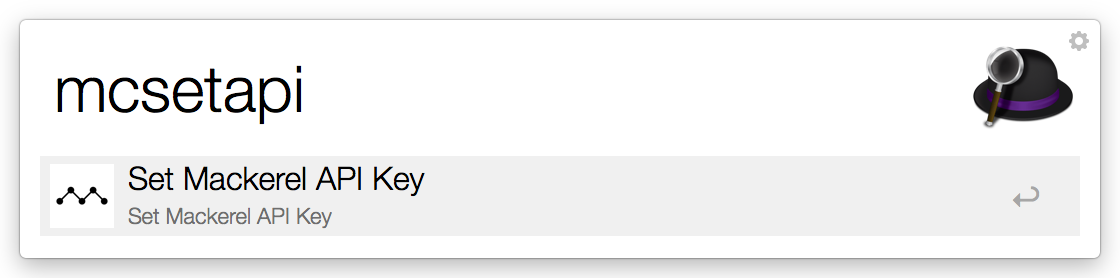
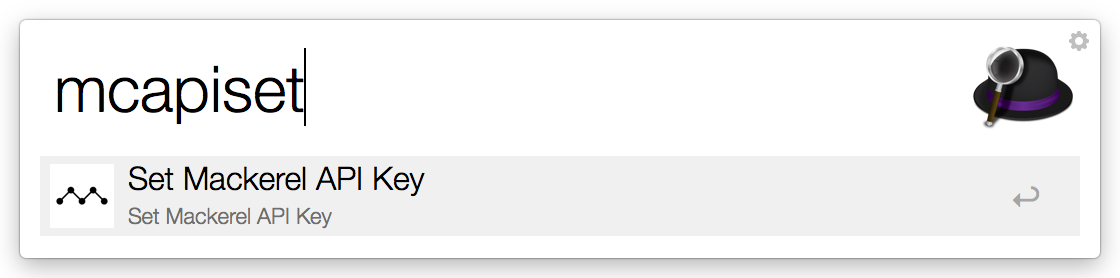
add service_search

Changed region(s): [[0.125, 0.2302, 0.2812, 0.4317]]

diff --git a/service_search.rb b/service_search.rb
@@ -1,0 +1,45 @@
+require 'json'
+load 'config.rb'
+
+# refs http://blog.mah-lab.com/2014/07/10/sudden-death-workflow/
+thequery  = ARGV[0].dup.force_encoding('utf-8')
+json_file = '/var/tmp/mackerel_services.json'
+
+begin
+  result = open(json_file) do |io|
+    JSON.load(io)
+  end
+rescue
+  puts "#{json_file} not found."
+  exit
+end
+
+urls = {}
+
+result.each_value do |v|
+  v.each do |i|
+    title = i['name']
+    urlPath = i['name']
+    urls["#{title}"] = {
+      url: "https://mackerel.io/orgs/#{@organization}/services/#{urlPath}"
+    }
+  end
+end
+
+xmlstring = "<?xml version=\"1.0\"?>\n<items>\n"
+
+urls.each_with_index do |(k, v), i|
+  if k.match(%r{[^\/]*#{thequery}[^\/]*$}i)
+    thisxmlstring = "\t<item uid=\"#{i}\" autocomplete=\"#{k}\" arg=\"#{v[:url]}\" valid=\"YES\">
+    <title>#{k}</title>
+    <subtitle>#{v[:url]}</subtitle>
+    </item>\n"
+    xmlstring += thisxmlstring
+  else
+    next
+  end
+end
+
+xmlstring += '</items>'
+
+puts xmlstring

diff --git a/update_cache.rb b/update_cache.rb
@@ -6,6 +6,7 @@ load 'config.rb'
 %w(
   hosts
   dashboards
+  services
 ).each do |path|
   endpoint         = "https://mackerel.io/api/v0/#{path}"
   uri              = URI.parse("#{endpoint}")

diff --git a/README.md b/README.md
@@ -14,7 +14,7 @@
 
 ## APIキーとオーガニゼーションの設定
 
-`cisetapi` を実行すると、テキストエディットが設定ファイルを開くので、
+`mcapiset` を実行すると、テキストエディットが設定ファイルを開くので、
 
  * APIキー (読み取り権限)
  * オーガニゼーション
@@ -46,3 +46,9 @@
 `mcd {dashboard}` を実行すると、該当Dashboardページを開きます。
 
 ![](images/alfred-mackerel-page-workflow03.png)
+
+## Serviceページを開く
+
+`mcs {service}` を実行すると、該当Serviceページを開きます。
+
+![](images/alfred-mackerel-page-workflow04.png)
